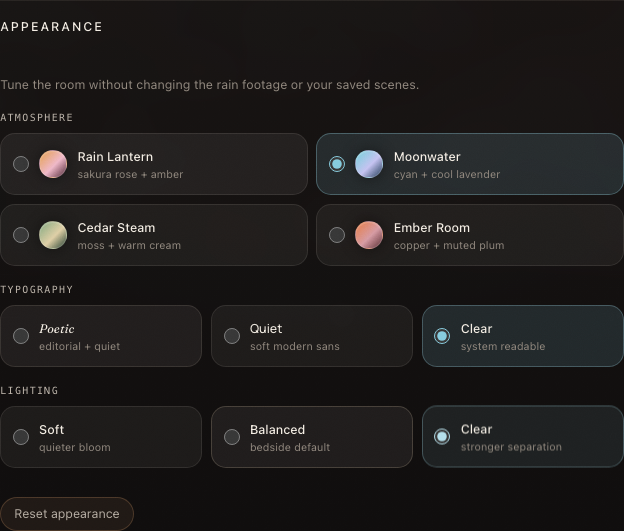
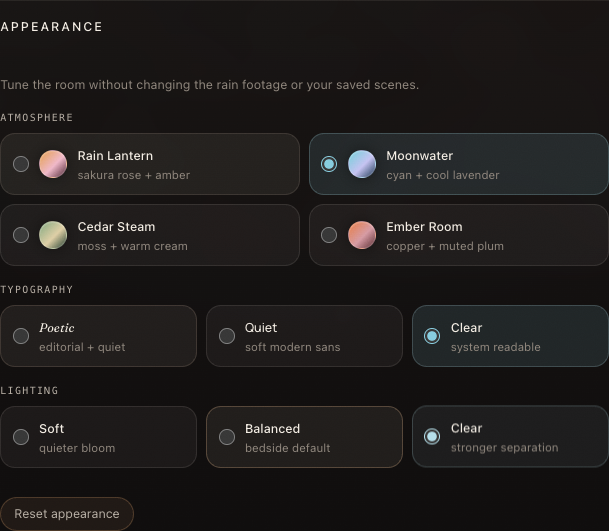
Polish alpha clarity and browser coverage

diff --git a/static/nocturne-polish.css b/static/nocturne-polish.css
@@ -98,8 +98,8 @@ html[data-light="soft"] {
 }
 html[data-light="clear"] {
   --text: #f4eee5;
-  --text-muted: #c2bab0;
-  --text-faint: #988f85;
+  --text-muted: #cbc3b9;
+  --text-faint: #a9a097;
   --surface-1: rgb(17 15 15 / 0.96);
   --surface-2: rgb(29 24 22 / 0.94);
   --surface-soft: rgb(255 248 235 / 0.065);
@@ -134,6 +134,8 @@ body {
 
 /* Feed the existing component language from the curated mood. */
 html[data-appearance-enabled="true"] {
+  --text-muted: #bcb4aa;
+  --text-faint: #968d83;
   --lantern: rgb(var(--accent-rgb));
   --lantern-soft: rgb(var(--accent-soft-rgb));
   --lantern-deep: rgb(var(--accent-rgb) / 0.72);
@@ -433,8 +435,8 @@ body.sound-picker-open {
 .appearance-option small {
   margin-top: 0.1rem;
   color: var(--text-faint);
-  font-size: 0.67rem;
-  line-height: 1.3;
+  font-size: 0.72rem;
+  line-height: 1.35;
 }
 .appearance-swatch {
   inline-size: 28px;
@@ -469,6 +471,11 @@ body[data-profile="nocturne"] :where(.brand-sub, .mixer-head .help, .scene-copy 
 }
 body[data-profile="nocturne"] :where(.meta-row, .master-slider .label .meta, .sleep-timer .label .meta) {
   color: var(--text-faint);
+  font-size: 0.62rem;
+}
+body[data-profile="nocturne"] .platform-card span {
+  font-size: 0.72rem;
+  line-height: 1.45;
 }
 body[data-profile="nocturne"] .mode-btn,
 body[data-profile="nocturne"] .settings-open {
@@ -579,7 +586,7 @@ body[data-profile="nocturne"] .slot-theme {
   min-height: 40px;
   border-color: var(--appearance-border);
   background: rgb(6 6 8 / 0.42);
-  font-size: 0.66rem;
+  font-size: 0.72rem;
 }
 body[data-profile="nocturne"] .channel input[type="range"] { min-height: 28px; }
 body[data-profile="nocturne"] .channel input[type="range"]::-webkit-slider-thumb {
@@ -790,13 +797,31 @@ body[data-profile="nocturne"] .sound-search input {
   border-color: var(--appearance-border);
   background: rgb(3 3 5 / 0.62);
 }
-body[data-profile="nocturne"] .sound-chip { min-height: 38px; color: var(--text-muted); }
+body[data-profile="nocturne"] .sound-chip {
+  min-height: 38px;
+  color: var(--text-muted);
+  font-size: 0.68rem;
+}
 body[data-profile="nocturne"] .sound-chip.active { color: #100d0b; background: rgb(var(--accent-soft-rgb)); }
 body[data-profile="nocturne"] .sound-option { border-color: rgb(255 255 255 / 0.11); background: rgb(7 7 9 / 0.58); }
 body[data-profile="nocturne"] .sound-option-name { color: var(--text); font-size: 1.12rem; }
 body[data-profile="nocturne"] .sound-option-meta { color: var(--text-muted); line-height: 1.45; }
 body[data-profile="nocturne"] .sound-option-path { color: var(--text-faint); }
 body[data-profile="nocturne"] .sound-option-actions button { min-height: 40px; padding-inline: 0.78rem; }
+
+/* Optional Utility remains disabled and route-hidden by default. When enabled,
+   keep its supporting copy in the same quiet-but-readable hierarchy. */
+body[data-profile="nocturne"] :where(
+  .utility-subtitle,
+  .utility-song-card .artist,
+  .utility-song-card .meta,
+  .utility-empty,
+  .utility-status,
+  .utility-help
+) {
+  color: var(--text-muted);
+}
+body[data-profile="nocturne"] .utility-editor-frame::before { color: rgb(var(--accent-rgb) / 0.72); }
 
 @media (max-width: 760px) {
   body[data-profile="nocturne"] .sky-stage { height: 610px; }

diff --git a/scripts/browser_smoke.py b/scripts/browser_smoke.py
@@ -33,7 +33,7 @@ def parse_args() -> argparse.Namespace:
     return parser.parse_args()
 
 
-def find_chromium(explicit: str | None) -> str:
+def find_chromium(explicit: str | None, playwright_path: str | None = None) -> str:
     candidates = [
         explicit,
         os.environ.get("CHROMIUM_BIN"),
@@ -41,11 +41,15 @@ def find_chromium(explicit: str | None) -> str:
         shutil.which("chromium-browser"),
         shutil.which("google-chrome"),
         shutil.which("google-chrome-stable"),
+        playwright_path,
     ]
     for candidate in candidates:
         if candidate and Path(candidate).is_file():
             return str(Path(candidate).resolve())
-    raise RuntimeError("No Chromium executable found. Pass --chromium or set CHROMIUM_BIN.")
+    raise RuntimeError(
+        "No Chromium executable found. Pass --chromium, set CHROMIUM_BIN, "
+        "or run `python -m playwright install chromium`."
+    )
 
 
 def main() -> int:
@@ -71,7 +75,6 @@ def main() -> int:
     try:
         from playwright.sync_api import Route, sync_playwright
 
-        chromium_path = find_chromium(args.chromium)
         html = (root / "static" / "index.html").read_text(encoding="utf-8")
         css = (root / "static" / "nocturne-polish.css").read_text(encoding="utf-8")
         manifest = json.loads((root / "sounds" / "sound_library.json").read_text(encoding="utf-8"))
@@ -119,6 +122,22 @@ def main() -> int:
             {"name": "First Light Tape", "url": "/sounds/library/campfire-loop-stereo.mp3"},
             {"name": "Rain Window Dub", "url": "/sounds/library/rain-city-pooling.mp3"},
         ]
+        utility_songs = [
+            {
+                "slug": "evening-loop",
+                "title": "Evening Loop",
+                "artist": "Nocturne",
+                "bpm": 72,
+                "key": "C minor",
+                "tags": ["local", "bedside"],
+                "updatedAt": "2026-07-14T00:00:00Z",
+            }
+        ]
+        utility_song = {
+            "slug": "evening-loop",
+            "meta": {key: value for key, value in utility_songs[0].items() if key != "slug"},
+            "code": 'note("<c3 eb3 g3>").slow(4)',
+        }
         weather_failure = False
         weather_stale = True
 
@@ -183,6 +202,12 @@ def main() -> int:
             if path == "/api/radio":
                 route.fulfill(status=200, body=json.dumps(radio_tracks), content_type="application/json")
                 return
+            if path == "/api/songs":
+                route.fulfill(status=200, body=json.dumps(utility_songs), content_type="application/json")
+                return
+            if path == "/api/songs/evening-loop":
+                route.fulfill(status=200, body=json.dumps(utility_song), content_type="application/json")
+                return
             if path == "/api/weather":
                 if weather_failure:
                     route.fulfill(status=200, body=json.dumps({"ok": False}), content_type="application/json")
@@ -212,9 +237,17 @@ def main() -> int:
                 else:
                     route.fulfill(status=404, body="")
                 return
+            if path == "/dashboard.html":
+                route.fulfill(
+                    status=200,
+                    body=(root / "static" / "dashboard.html").read_text(encoding="utf-8"),
+                    content_type="text/html",
+                )
+                return
             route.fulfill(status=404, body="{}", content_type="application/json")
 
         with sync_playwright() as playwright:
+            chromium_path = find_chromium(args.chromium, playwright.chromium.executable_path)
             browser = playwright.chromium.launch(
                 headless=True,
                 executable_path=chromium_path,
@@ -243,10 +276,16 @@ def main() -> int:
               });
               Object.defineProperty(window, 'isSecureContext', { configurable: true, value: true });
               window.__nocturneAudioObjects = 0;
+              window.__nocturneAudioPlayCalls = 0;
               const NativeAudio = window.Audio;
               window.Audio = function(...args) {
                 window.__nocturneAudioObjects += 1;
-                return new NativeAudio(...args);
+                const audio = new NativeAudio(...args);
+                audio.play = () => {
+                  window.__nocturneAudioPlayCalls += 1;
+                  return Promise.resolve();
+                };
+                return audio;
               };
               window.Audio.prototype = NativeAudio.prototype;
             }""")
@@ -293,6 +332,28 @@ def main() -> int:
                 checks.append("Nocturne Pi does not request the disabled rain video")
                 assert appearance_enabled == "false" and not appearance_section.is_visible()
                 checks.append("Nocturne Pi keeps curated appearance controls disabled")
+                pi_rendering = page.evaluate("""() => {
+                  const style = selector => getComputedStyle(document.querySelector(selector));
+                  return {
+                    grain: style('.grain').display,
+                    rain: style('.ambient-rain').display,
+                    petals: style('.ambient-petals').display,
+                    reelAnimation: style('.reel').animationName,
+                    settingsBlur: style('.settings-dialog').backdropFilter,
+                    settingsWebkitBlur: style('.settings-dialog').webkitBackdropFilter
+                  };
+                }""")
+                assert {key: pi_rendering[key] for key in (
+                    "grain", "rain", "petals", "reelAnimation", "settingsBlur"
+                )} == {
+                    "grain": "none",
+                    "rain": "none",
+                    "petals": "none",
+                    "reelAnimation": "none",
+                    "settingsBlur": "none",
+                }, pi_rendering
+                assert pi_rendering["settingsWebkitBlur"] in (None, "none"), pi_rendering
+                checks.append("Nocturne Pi suppresses decorative layers, reel motion, and dialog blur")
             else:
                 assert appearance_enabled == "true" and appearance_section.is_visible() is False
 
@@ -384,7 +445,9 @@ def main() -> int:
             page.wait_for_function("() => document.querySelectorAll('#scene-select option').length === 1")
             checks.append("local scenes can be deleted without affecting the sound catalog")
 
-            page.screenshot(path=str(artifacts / "desktop-onsen.png"), full_page=True)
+            page.evaluate("scrollTo(0, 0)")
+            page.wait_for_function("scrollY === 0")
+            page.screenshot(path=str(artifacts / "desktop-onsen.png"), full_page=False)
 
             if profile_id == "nocturne":
                 # Sky keeps its moon and observing card separate, including stale weather labeling.
@@ -457,6 +520,19 @@ def main() -> int:
             page.wait_for_selector("#sound-picker:not([hidden])")
             checks.append("sound picker opens from a mixer slot")
 
+            if profile_id == "nocturne":
+                clarity_sizes = page.evaluate("""() => Object.fromEntries(Object.entries({
+                  change: '.slot-change',
+                  category: '.sound-chip',
+                  appearanceDetail: '.appearance-option small',
+                  platformDetail: '.platform-card span'
+                }).map(([name, selector]) => [name, parseFloat(getComputedStyle(document.querySelector(selector)).fontSize)]))""")
+                assert clarity_sizes["change"] >= 11.5, clarity_sizes
+                assert clarity_sizes["category"] >= 10.8, clarity_sizes
+                assert clarity_sizes["appearanceDetail"] >= 11.5, clarity_sizes
+                assert clarity_sizes["platformDetail"] >= 11.5, clarity_sizes
+                checks.append("quiet secondary actions and supporting copy retain measured text floors")
+
             category_labels = page.locator("#sound-picker-categories .sound-chip").all_text_contents()
             assert category_labels[:5] == ["tonight", "all", "recorded", "generated", "experimental"], category_labels
             checks.append("picker hierarchy begins with Tonight, All, Recorded, Generated, Experimental")
@@ -519,6 +595,7 @@ def main() -> int:
 
             if profile_id == "nocturne":
                 page.evaluate("scrollTo(0, 0)")
+                page.wait_for_function("scrollY === 0")
                 for mood in ("rain-lantern", "moonwater", "cedar-steam", "ember-room"):
                     page.locator("#settings-open").click()
                     page.wait_for_selector("#settings-overlay:not([hidden])")
@@ -584,6 +661,20 @@ def main() -> int:
             page.screenshot(path=str(artifacts / "mobile-mixer.png"), full_page=False)
             checks.append("390 px mobile viewport has a two-column mixer with no horizontal overflow")
 
+            page.set_viewport_size({"width": 340, "height": 740})
+            page.locator(".mixer-section").scroll_into_view_if_needed()
+            page.wait_for_timeout(100)
+            narrow_overflow = page.evaluate("document.documentElement.scrollWidth <= window.innerWidth + 1")
+            narrow_columns = page.locator("#mixer-grid").evaluate(
+                "e => getComputedStyle(e).gridTemplateColumns.split(' ').filter(Boolean).length"
+            )
+            assert narrow_overflow and narrow_columns == 1, {
+                "overflow": narrow_overflow,
+                "columns": narrow_columns,
+            }
+            page.screenshot(path=str(artifacts / "narrow-mixer.png"), full_page=False)
+            checks.append("340 px compact viewport has a one-column mixer with no horizontal overflow")
+
             if profile_id == "nocturne":
                 page.emulate_media(reduced_motion="reduce")
                 motion_duration = page.locator(".ambient-petals .petal").first.evaluate("e => getComputedStyle(e).animationDuration")
@@ -600,6 +691,40 @@ def main() -> int:
                 assert page.locator("#playlist-empty").is_visible()
                 checks.append("Radio has an intentional empty-folder state")
 
+                # Exercise optional modes without changing their packaged disabled defaults.
+                default_settings["modes"]["utility"] = True
+                default_settings["modes"]["dashboard"] = True
+                page.emulate_media(reduced_motion="no-preference")
+                page.set_viewport_size({"width": 1440, "height": 1000})
+                page.set_content(html, wait_until="domcontentloaded")
+                page.wait_for_function("document.body.style.opacity !== '0'")
+                page.wait_for_function("document.querySelectorAll('.mode-btn[data-mode]:not([hidden])').length === 5")
+                optional_modes = page.locator('.mode-btn[data-mode]:visible').evaluate_all(
+                    "els => els.map(el => el.dataset.mode)"
+                )
+                assert optional_modes == ["onsen", "sky", "radio", "utility", "dashboard"], optional_modes
+                audio_play_calls_before_optional = page.evaluate("window.__nocturneAudioPlayCalls")
+
+                page.locator('.mode-btn[data-mode="utility"]').click()
+                page.wait_for_function("document.querySelector('#utility-now-title').textContent === 'Evening Loop'")
+                assert page.locator("#utility-hero").is_visible()
+                assert page.locator("#utility-code-editor").input_value() == utility_song["code"]
+                assert page.evaluate("document.documentElement.scrollWidth <= window.innerWidth + 1")
+                page.screenshot(path=str(artifacts / "desktop-utility.png"), full_page=False)
+                checks.append("enabled Utility renders its local library and editor without viewport overflow")
+
+                page.locator('.mode-btn[data-mode="dashboard"]').click()
+                page.frame_locator("#dashboard-frame").locator(".clock").wait_for(state="visible")
+                assert page.locator("#dashboard-hero").is_visible()
+                assert page.evaluate("document.documentElement.scrollWidth <= window.innerWidth + 1")
+                page.screenshot(path=str(artifacts / "desktop-dashboard.png"), full_page=False)
+                checks.append("enabled Dashboard lazily loads its packaged frame without viewport overflow")
+
+                unexpected_requests = [url for url in request_urls_seen if not url.startswith(BASE_URL)]
+                assert not unexpected_requests, unexpected_requests
+                assert page.evaluate("window.__nocturneAudioPlayCalls") == audio_play_calls_before_optional
+                checks.append("browser smoke makes no external requests; Utility and Dashboard start no audio")
+
             browser.close()
 
         assert not page_errors, page_errors
@@ -613,8 +738,11 @@ def main() -> int:
             "verification-artifacts/desktop-platform-settings.png",
             "verification-artifacts/desktop-tonight-picker.png",
             "verification-artifacts/mobile-mixer.png",
+            "verification-artifacts/narrow-mixer.png",
             "verification-artifacts/tablet-sky.png" if profile_id == "nocturne" else None,
             "verification-artifacts/mobile-sky.png" if profile_id == "nocturne" else None,
+            "verification-artifacts/desktop-utility.png" if profile_id == "nocturne" else None,
+            "verification-artifacts/desktop-dashboard.png" if profile_id == "nocturne" else None,
         ] + mood_screenshots
         report["screenshots"] = [path for path in report["screenshots"] if path]
         report_path.write_text(json.dumps(report, indent=2) + "\n", encoding="utf-8")

diff --git a/docs/ALPHA_FOLLOWUPS.md b/docs/ALPHA_FOLLOWUPS.md
@@ -1,0 +1,16 @@
+# Alpha follow-up notes
+
+This is a short maintenance queue, not release evidence. “Fixed” items are
+covered by repository checks; “field” items still require the named real device
+or interaction and must not be presented as verified.
+
+| ID | Priority | Status | Flag and evidence | Quick follow-up |
+|---|---|---|---|---|
+| UI-01 | medium | fixed | Muted helper copy and compact actions fell below the otherwise calm visual hierarchy. Browser smoke now measures representative text floors. | Recheck these floors whenever the full-profile type scale changes. |
+| QA-01 | medium | fixed | Browser smoke required a separately discovered system browser and missed the 340 px breakpoint plus enabled Utility/Dashboard states. | Keep Playwright Chromium QA-only; run both profiles before release captures. |
+| CSS-01 | low | open | The large inline base stylesheet and later polish layer create specificity debt, although current brace, compile, and browser checks pass. | Consolidate only during a separately scoped CSS maintenance project; avoid a release-pass refactor. |
+| DASH-01 | low | field | Dashboard is correctly lazy-loaded and unloaded, but its canvas cost has not been measured on a Raspberry Pi. | Profile the enabled Dashboard on the intended Pi/browser and record thermals, frame stability, and unload behavior. |
+| PLAT-01 | high | field | Windows/macOS launchers, Raspberry Pi, screen reader, lock-screen/app-switch, listening comfort, and overnight behavior remain unverified on real targets. | Record exact device, OS, browser, launch context, and result in the existing device/hardware reports. |
+
+Utility remains disabled and route-hidden by default. Its enabled browser smoke
+uses local fixtures and does not exercise the explicit outbound Strudel link.

diff --git a/README.md b/README.md
@@ -22,7 +22,7 @@ Onsen keeps the cinematic rain scene close to the shared master and timer rail.
 | Moon phase and a compact local observing card. | A warm local deck that waits for you to press play. |
 
 <p align="center">
-  <a href="docs/screenshots/appearance-room.png"><img src="docs/screenshots/appearance-room.png" alt="Nocturne Room settings with four atmosphere moods, three typography treatments, and three lighting densities" width="624"></a>
+  <a href="docs/screenshots/appearance-room.png"><img src="docs/screenshots/appearance-room.png" alt="Nocturne Room settings with four atmosphere moods, three typography treatments, and three lighting densities" width="609"></a>
 </p>
 <p align="center"><em>Room settings coordinate atmosphere, typography, and lighting in this browser without recoloring the rain footage.</em></p>
 

diff --git a/scripts/README.md b/scripts/README.md
@@ -34,7 +34,10 @@ once those targets are exercised in CI or on hardware.
 | Require all locally generated WAVs | `python check_audio_contract.py --installed` and `node scripts/release-audit.mjs --installed` |
 | Stamp a source/archive build | `python scripts/stamp_build.py --version 0.1.0-alpha.N --revision <label>` |
 
-`browser_smoke.py` requires Python Playwright and a Chromium executable, but neither is a Nocturne runtime dependency.
+`browser_smoke.py` requires Python Playwright and Chromium, but neither is a
+Nocturne runtime dependency. It honors `--chromium` and `CHROMIUM_BIN`, searches
+the ordinary executable path, then uses Playwright's installed Chromium. Install
+that QA-only browser with `python -m playwright install chromium` when needed.
 
 ## Audio tools
 

diff --git a/CHANGELOG.md b/CHANGELOG.md
@@ -36,6 +36,11 @@
 - Replaced the external font request with locally packaged OFL typefaces.
 - Added a compact README showcase of Onsen, Sky, Radio, and the browser-local
   Room appearance controls using deterministic full-profile captures.
+- Raised quiet secondary-copy and compact-action legibility without changing
+  the room composition, profile split, or disabled-by-default optional modes.
+- Extended deterministic browser QA through 340 px, optional Utility/Dashboard
+  states, and explicit Nocturne Pi motion/blur guards; recorded the remaining
+  field-evidence and stylesheet follow-ups in `docs/ALPHA_FOLLOWUPS.md`.
 
 ## 0.1.0-alpha.12 — first public field-test alpha
 
